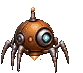
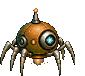
گام: دستهٔ ۵ برشخورده؛ حذف دیوارپرش (D-ART-04) و بهروزرسانی فیلمنامه/اسناد
Claude-Session: https://claude.ai/code/session_01TYtLdDKpy9hWwSs3GHKfoa

diff --git a/art/tools/slice_ch1_v5.py b/art/tools/slice_ch1_v5.py
@@ -1,0 +1,26 @@
+#!/usr/bin/env python3
+"""برش دستهٔ ۵ (سهچهارم از بالا): کاشی زیرزمین، سه صحنه، کف برقی/در امنیتی، شکلهای بولت، باس.
+  python3 -I art/tools/slice_ch1_v5.py   (اصلها: art/raw/ch1_v5/)"""
+import json, os, sys, shutil
+sys.path.insert(0, os.path.dirname(__file__))
+from PIL import Image
+import slice_ch1_v1 as v1, slice_ch1_v2 as v2, slice_ch1_v4 as v4
+RAW = "art/raw/ch1_v5"; v1.RAW = RAW; v4.RAW = RAW
+def obsolete():
+    """نمای کناری/روبهرو که با دوربین سهچهارم نمیخواند (D-063) کنار گذاشته میشود، حذف نمیشود."""
+    d = "art_drop/kairo/home/anim"; o = f"{d}/_obsolete_sideview"; os.makedirs(o, exist_ok=True)
+    for f in os.listdir(d):
+        if f.startswith("wall_jump") and os.path.isfile(f"{d}/{f}"): shutil.move(f"{d}/{f}", f"{o}/{f}")
+    for src, dst in (("art_drop/boss/guardian", "art_drop/boss/_obsolete_front_guardian"), ("art_drop/bolt/forms", "art_drop/bolt/_obsolete_front_forms")):
+        if os.path.isdir(src) and not os.path.isdir(dst): shutil.move(src, dst)
+def run():
+    obsolete(); rep = {}
+    rep["tiles_basement"] = v2.tiles("tileset_basement", "basement")
+    os.makedirs("art_drop/scenes/ch1", exist_ok=True)
+    for n in ("ilara_bedroom", "launch_road", "workshop"):
+        Image.open(f"{RAW}/scene_{n}_full.png").convert("RGB").resize((1280, 720), Image.LANCZOS).save(f"art_drop/scenes/ch1/{n}_1280x720.png")
+    rep["hazards"] = v4.sheet_out("hazards_electric_door", ["electric_floor_0", "electric_floor_1", "electric_floor_2", "security_door_0", "security_door_1", "security_door_2"], 0.2, "art_drop/hazards_ch1_topdown", 2, 3)
+    rep["bolt_forms"] = v4.sheet_out("bolt_forms_topdown", ["hover", "wheel", "spider", "bird", "transform_0", "transform_1"], 0.2, "art_drop/bolt/forms", 2, 3)
+    rep["boss"] = v4.sheet_out("boss_guardian_topdown", [f"phase_{i + 1}" for i in range(4)], 0.34, "art_drop/boss/guardian", 2, 2)
+    print(json.dumps(rep))
+if __name__ == "__main__": run()

diff --git a/docs/01_main_design_and_screenplay_ch1-8.md b/docs/01_main_design_and_screenplay_ch1-8.md
@@ -2,6 +2,8 @@
 
 Oct 30, 2026 · @مجتبی
 
+> **تغییر مصوب (۱۴۰۵/۰۸/۱۴، مطابق D-063 و D-ART-04):** دوربین کل بازی سهچهارم از بالاست. **دیوارپرش حذف شد** و جای آن در مرحلهٔ ۲ «زنجیرهٔ سکوی شکننده + نقطهٔ بالا رفتن (`climb`)» است. «پرش» همان «جهش» با کمان ثابت (۳ کاشی در ۰٫۴ ثانیه، سایهٔ بیضی روی زمین) است و دش میماند. هر جای این سند که «دیوارپرش»، «نمای کناری» یا «قفل عمودی» آمده با همین بند خوانده شود؛ جزئیات عددی در `game/TOPDOWN_SPEC.md`.
+
 ## مصوبات طراحی
 
 **نام بازی: «دو آسمان» (Two Skies).** ایلارا و کایرو زیر دو آسمان میجنگند، آسمان زمین و آسمان اورا، و در پایان همان رفتار بازیکن معلوم میکند که آن دو آسمان یکی میشوند یا نه. نام با دو نمای بازی (جانبی و سهچهارم) و سوییچ دو دنیا هم جور است. نام انگلیسی برای فروشگاههای جهانی و نام فارسی برای کافهبازار و آیکون است.
@@ -81,7 +83,7 @@ Oct 30, 2026 · @مجتبی
 | جهش | نما | ورودی | مقدار | دوربین |
 | --- | --- | --- | --- | --- |
 | پرش دقیق | کناری | دکمهی پرش؛ نگه داشتن = بلندتر | ارتفاع ۳ تا ۴٫۵ کاشی، طول تا ۵ کاشی، ۰٫۵ تا ۰٫۷ ثانیه | قفل عمودی تا فرود |
-| دیوارپرش | کناری | پرش هنگام چسبیدن | ۴ کاشی بالا، ۲ کاشی دور | قفل عمودی |
+| ~~دیوارپرش~~ → بالا رفتن (`climb`) | سهچهارم | نزدیک لبه، دکمهٔ عمل | یک ارتفاع کاشی، ۰٫۵ ثانیه، بدون خطر | قفل اتاق |
 | دَش | کناری | دکمهی عمل | ۳ کاشی در ۰٫۱۸ ثانیه | بدون زوم و لرزش ۱ پیکسل |
 | کولاک (ایلارا) | کناری | نگه داشتن پرش در هوا | تا ۶ کاشی افقی | دنبال کردن نرم |
 | جهش کوتاه به لبه | سهچهارم | ضربهی دکمهی عمل کنار لبهی علامتدار | تا ۲ کاشی، قوس ۱۲ پیکسل، ۰٫۳۵ ثانیه | بدون تغییر |
@@ -424,7 +426,7 @@ Oct 30, 2026 · @مجتبی
 | # | نام | ایدهی مرکزی | ابزار تازه | سختی از ۱۰ | زمرد در دسترس |
 | --- | --- | --- | --- | --- | --- |
 | ۱ | خانهی خالی | دویدن، پرش، مرگ بیخطر | — | ۱ | ۱ |
-| ۲ | خیابان سوخته | دیوارپرش، تیغه، پلتفرم فروریزنده | دیوارپرش | ۲ | ۱ |
+| ۲ | خیابان سوخته | سکوی شکننده، بالا رفتن، تیغه | بالا رفتن | ۲ | ۱ |
 | ۳ | پهپاد گشتی | اولین دشمن و زمانبندی | — | ۳ | ۱ |
 | ۴ | زیرزمین | هک: در و پهپاد | هکماژول | ۳ | ۱ |
 | ۵ | کف برقی | ریتم و دَش | دَش | ۵ | ۲ |
@@ -448,15 +450,15 @@ Oct 30, 2026 · @مجتبی
 
 ### مرحله ۲: خیابان سوخته
 
-دیوارپرش مکانیک کلیدی بازی است و باید در امنترین حالت معرفی شود.
+سکوی شکننده و نقطهٔ بالا رفتن (`climb`) مکانیک کلیدی مرحلهاند و باید در امنترین حالت معرفی شوند. (جایگزین دیوارپرش؛ تصمیم مدیر پروژه، ۱۴۰۵/۰۸/۱۴.)
 
-- **ورودی:** دو دیوار موازی بدون خطر؛ بازیکن خودش کشف میکند که میشود از دیوار پرید.
-- **بخش ۱:** دیوارپرش بین دو ساختمان، امن.
-- **بخش ۲:** پلتفرمهای فروریزنده روی ماشینهای سوخته.
-- **بخش ۳:** تیغهی چرخان با مسیر ثابت کنار دیوارپرش.
-- **بخش ۴ (اوج):** دیوار بلند با تیغههای متناوب و پلتفرم فروریزنده در ارتفاع.
-- **مسیر فرعی:** بالای تابلوی نئون با یک دیوارپرش دقیق؛ زمرد و قطعهی باتری.
-- **پاداش پایانی:** ابزار دیوارپرش ثبت میشود، قطعهی باتری، پیام صوتی پدر: «مواظب خواهرت باش.»
+- **ورودی:** دو ردیف کاشی ثابت و یک سکوی شکننده بیخطر؛ بازیکن خودش کشف میکند که سکو یک ثانیه بعد از پا گذاشتن میریزد و باید حرکت کرد.
+- **بخش ۱:** زنجیرهٔ سکوی شکننده روی ماشینهای سوخته بین دو ساختمان، امن (افتادن = بازگشت فوری به آخرین کاشی ثابت).
+- **بخش ۲:** نقطهٔ بالا رفتن روی لبهٔ ساختمان؛ کایرو بالا میرود و ایلارا از همان نقطه دنبالش میآید.
+- **بخش ۳:** تیغهٔ چرخان با مسیر ثابت کنار زنجیرهٔ سکوها.
+- **بخش ۴ (اوج):** سکوهای شکننده پشتسرهم زیر تیغههای متناوب و یک جهش ۳ کاشیای روی چاله.
+- **مسیر فرعی:** پشت تابلوی نئون با یک `climb` و یک جهش دقیق؛ زمرد و قطعهٔ باتری.
+- **پاداش پایانی:** ابزار «بالا رفتن» ثبت میشود، قطعهٔ باتری، پیام صوتی پدر: «مواظب خواهرت باش.»
 
 ### مرحله ۳: پهپاد گشتی
 

diff --git a/DECISIONS.md b/DECISIONS.md
@@ -861,3 +861,6 @@ BFS کاشیمحور این را نمیبیند.
 
 ## D-ART-03 — فونت فارسی پیکسلی (۱۴۰۵/۰۸/۱۴، درخواست کاربر)
 متنهای بازی (منو، HUD، دیالوگ، فروشگاه) با فونت پیکسلی «عرفان» (OFL 1.1، `game/assets/fonts/Erfan-Pixel-Regular.ttf`) نوشته میشود، نه وزیرمتن صاف. نکتهها: شبکهٔ بومی ۱۶ پیکسل در em؛ فقط اندازههای مضرب ۱۶ (۱۶، ۳۲، ۴۸، ۶۴) با فیلتر Nearest و بدون anti-alias. فونت GSUB ندارد؛ اتصال حروف با HarfBuzz و فرمهای نمایشی (TextServerAdvanced، زبان fa، RTL) درست کار میکند (با Pillow RAQM تست شد). گلیف «·» ندارد (از «|» یا «-» استفاده شود). وزن Bold ندارد (برای تأکید رنگ/اندازه). وزیرمتن فقط برای متنهای بلند حقوقی/توضیحات یا اگر خوانایی کم بود. لوگوی فارسی همچنان جدا طراحی میشود.
+
+## D-ART-04 — دیوارپرش حذف، جایگزین طبق D-063 (۱۴۰۵/۰۸/۱۴، پیشنهاد مدیر پروژه، تأیید کاربر)
+با دوربین سهچهارم (D-063) دیوارپرش معنا ندارد. تصمیم: دیوارپرش حذف میشود؛ مرحلهٔ ۲ با «زنجیرهٔ سکوی شکننده + بالا رفتن (`climb`)» ساخته میشود؛ پرش = جهش با کمان ثابت و سایه؛ دش میماند. سند ۰۱ (فیلمنامه و مرحلهٔ ۲)، ۰۴ و ۰۵ با یادداشت مصوب بهروز شدند. هنر: فریمهای `wall_jump` و باس/شکلهای بولت روبهرو در پوشههای `_obsolete_*` کنار گذاشته شدند (حذف نشدند)؛ جایگزینها سهچهارم از بالا در Canva ساخته میشوند (`art/PRODUCTION_LIST.md`).

diff --git a/art/PRODUCTION_LIST.md b/art/PRODUCTION_LIST.md
@@ -50,3 +50,7 @@
 - صحنهٔ اتاق خواب ایلارا (مرحلهٔ مخفی): MAHZ-q6nviI
 - کاشی زیرزمین (بازسازی؛ جایگزین MAHZ97PAVhI): MAHZ-qVZrE8
 - هنوز نساخته: تغییر پرش/دیوارپرش/دش به معادل سهچهارمازبالا (منتظر تصمیم کاربر)، سکوی پرتاب/جدایی (صحنهٔ ۷)، بولت احساسها در نمای از بالا
+
+## دستهٔ ۵ — دریافت و برش شد (`art/tools/slice_ch1_v5.py`، اصلها `art/raw/ch1_v5/`)
+☑ کاشی زیرزمین → `art_drop/tiles_ch1/basement/` · ☑ صحنهها (اتاق ایلارا، جادهٔ پرتاب، کارگاه) → `art_drop/scenes/ch1/` · ☑ کف برقی + در امنیتی/لیزر → `art_drop/hazards_ch1_topdown/` · ☑ بولت (شکلها، از بالا) → `art_drop/bolt/forms/` · ☑ باس غول نگهبان (از بالا) → `art_drop/boss/guardian/`
+✅ تصمیم زاویه (D-ART-04): دیوارپرش حذف؛ نسخهٔ جانبی/روبهرو به `_obsolete_*` رفت. جایگزینها ◐ در Canva: بالا رفتن کایرو/ایلارا، جهش رو به پایین کایرو/ایلارا، سکوی شکننده، احساس بولت از بالا، صحنهٔ سکوی پرتاب/جدایی (ids در پایین).

diff --git a/docs/04_art_and_sound_bible.md b/docs/04_art_and_sound_bible.md
@@ -1,3 +1,5 @@
+> **تغییر مصوب (۱۴۰۵/۰۸/۱۴):** دوربین سهچهارم از بالاست؛ ردیفهای «دیوارپرش» و هر انیمیشن نمای کناری منسوخاند. بهجایشان: جهش (کمان ثابت با سایه)، بالا رفتن (`climb`) و سکوی شکننده. هنر نمای کناری در `_obsolete_sideview` نگه داشته شده است.
+
 # کتاب هنر و صدا
 
 این تب مشخص میکند هر بخش بازی چه شکلی، چه رنگی، چه اندازهای، چه انیمیشنی و چه صدایی دارد تا هنرمند یا خودت بتوانی بدون حدس زدن تولیدش کنی.

diff --git a/docs/05_release_v1_plan.md b/docs/05_release_v1_plan.md
@@ -1,3 +1,5 @@
+> **تغییر مصوب (۱۴۰۵/۰۸/۱۴):** دیوارپرش از نسخهٔ ۱ حذف و با زنجیرهٔ سکوی شکننده و بالا رفتن (`climb`) جایگزین شد؛ پرش = جهش با کمان ثابت (`game/TOPDOWN_SPEC.md`).
+
 # نسخهی اول و انتشار
 
 این تب مشخص میکند اولین ساخت چیست، برای بازیکن ایرانی چطور منتشر و پولدرآوری میشود، و برای هنر و صدای واقعی چه باید کرد.
